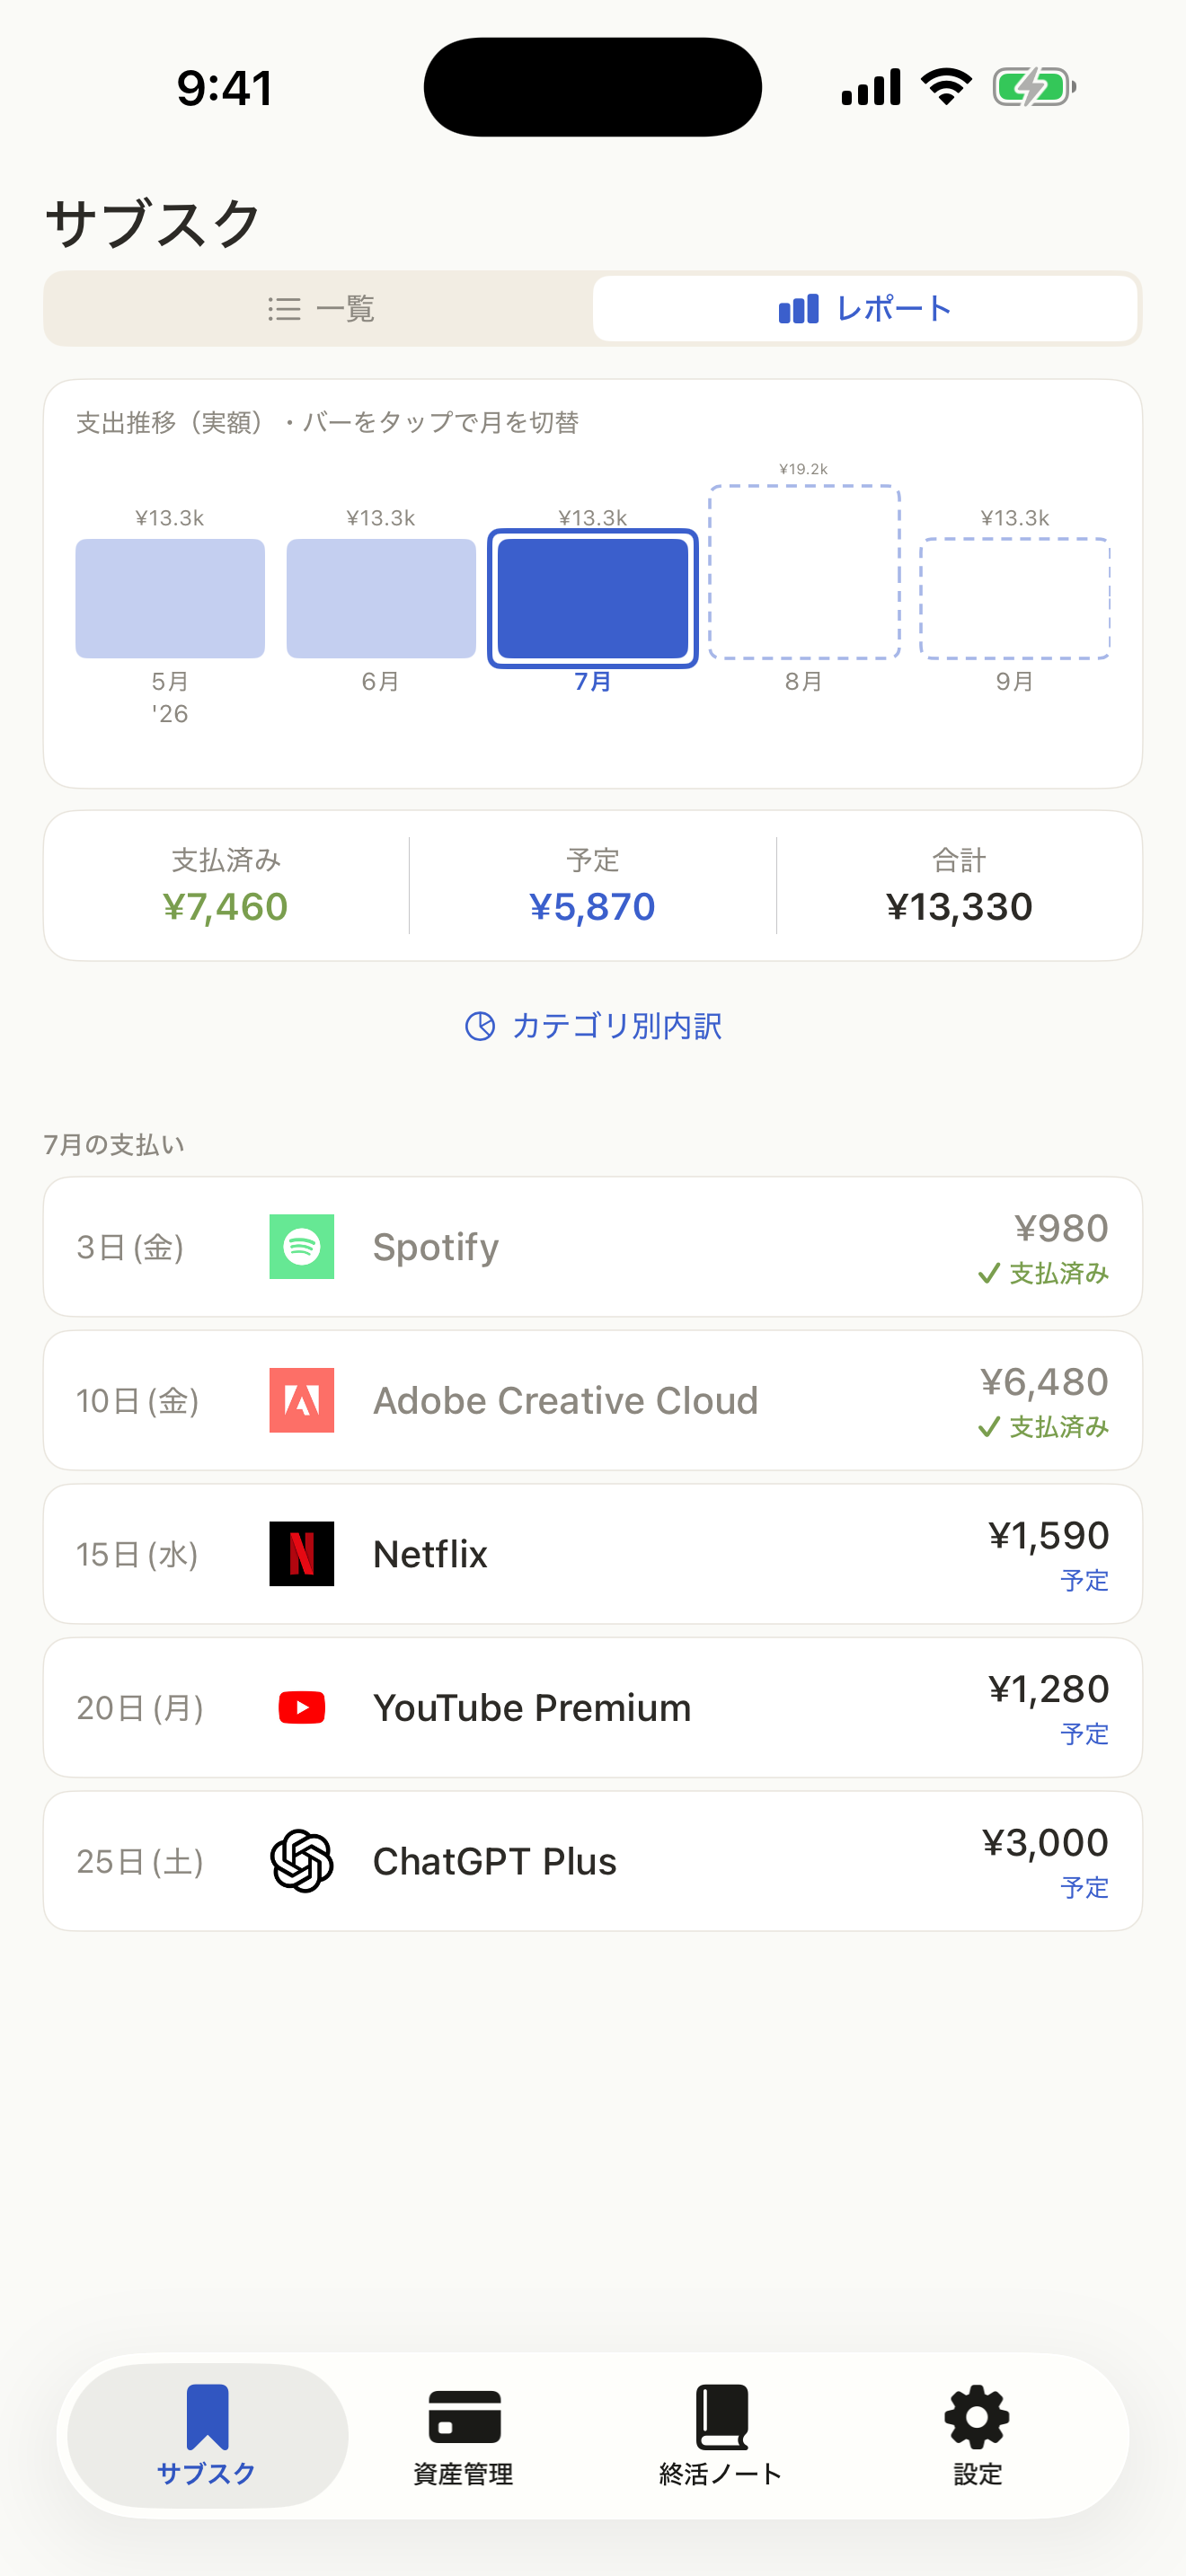
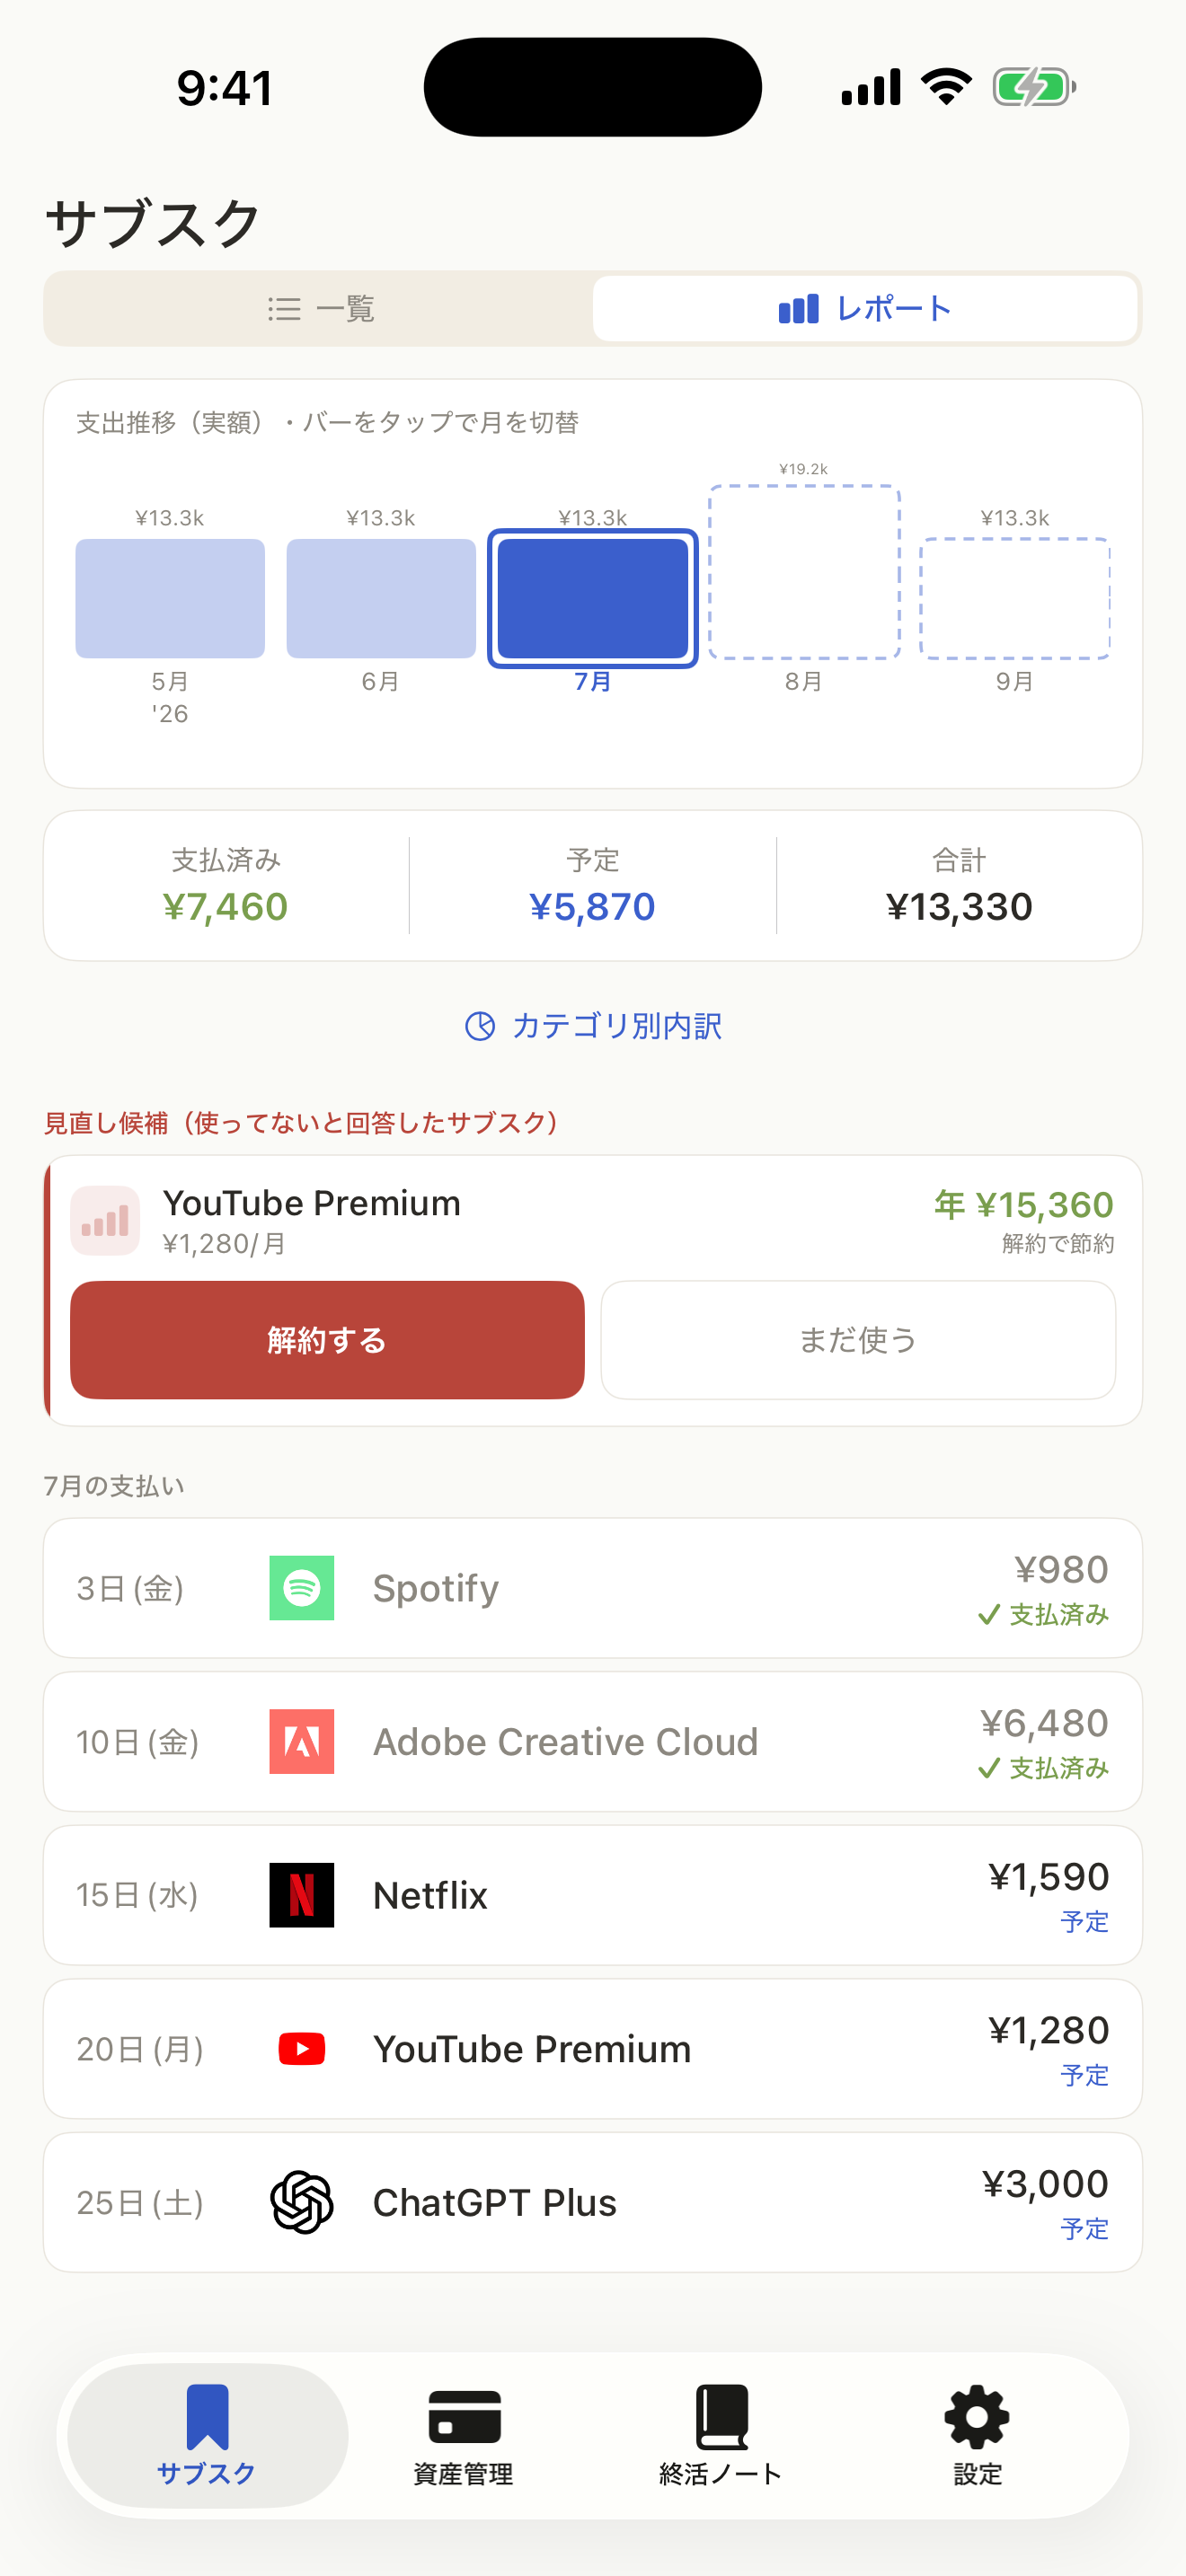
feat(features): レポートセクションに「見直し候補」を追加
- スクショを見直し候補カード入りに撮り直し（YouTube Premium・年¥15,360
  解約で節約・解約する/まだ使うボタンが写る構図。シードに unused 1件追加）
- 見出し・本文・ポイント先頭行（赤ドット）で見直し候補を訴求
  （レポートの目玉機能がサイト未掲載だった Kentaro 指摘への対応）

diff --git a/features.html b/features.html
@@ -539,9 +539,13 @@
 <section class="feature-section reverse" id="schedule">
   <div class="feature-text">
     <span class="feature-label indigo">📊 支出レポート</span>
-    <h2>毎月の支出を、<br>ひと目で振り返る。</h2>
-    <p>月ごとの支出をグラフで確認。支払済みと予定を分けて表示し、カテゴリ別の内訳まで把握できます。</p>
+    <h2>毎月の支出を振り返り、<br>ムダを「見直し候補」に。</h2>
+    <p>月ごとの支出をグラフで確認。支払済みと予定を分けて表示し、カテゴリ別の内訳まで把握できます。さらに、使っていないと答えたサブスクは「見直し候補」として提示——解約した場合の年間節約額を示して、見直しを後押しします。</p>
     <div class="feature-points">
+      <div class="feature-point">
+        <div class="feature-point-dot" style="background: var(--red);"></div>
+        <span>使ってないサブスクを「見直し候補」に集約。年間の節約額を提示し、その場で解約を記録</span>
+      </div>
       <div class="feature-point">
         <div class="feature-point-dot" style="background: var(--green);"></div>
         <span>月ごとの支出推移をバーグラフで表示・タップで月を切替</span>
@@ -562,7 +566,7 @@
   </div>
   <div class="phone-wrap">
     <div class="phone-img-wrap">
-      <img src="images/ss_03_schedule.png" alt="支出レポート画面" loading="lazy">
+      <img src="images/ss_03_schedule.png" alt="支出レポート画面（見直し候補つき）" loading="lazy">
     </div>
   </div>
 </section>